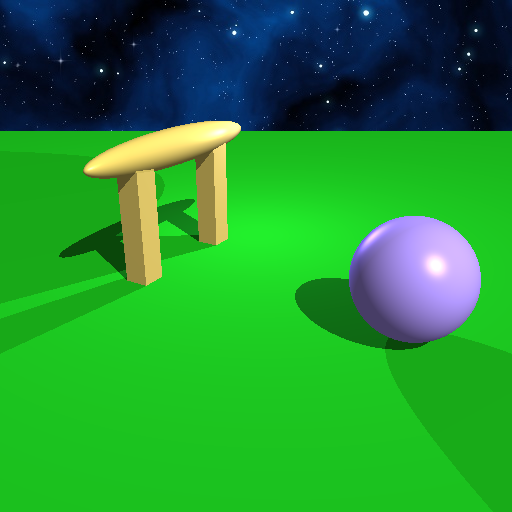
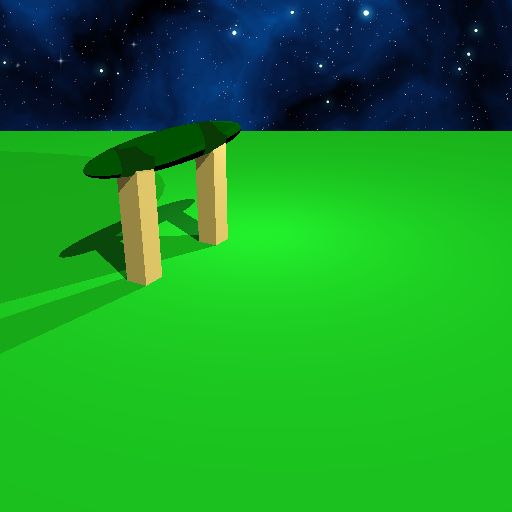
refactor

Changed region(s): [[0.5625, 0.4062, 1.0, 0.8438], [0.1562, 0.2188, 0.4688, 0.375]]

diff --git a/cs488/A4/A4.cpp b/cs488/A4/A4.cpp
@@ -9,11 +9,10 @@ using namespace std;
 #include "stb_image.h"
 
 #include "A4.hpp"
-#include "PhongMaterial.hpp"
 #include <time.h>
 
 #define PI 3.14159
-#define EPSILON 1.0
+#define EPSILON 1.0e-2
 
 static const char *BG_FILE_NAME = "bg.jpg";
 static const double COLOR_THRESHOLD = 0.01;
@@ -22,9 +21,10 @@ static const double RESAMPLE_LEVEL = 4;
 static unsigned char *bg_data;
 
 static const bool ADAPTIVE_SAMPLING = false;
-static const bool FRESNEL = false;
+static const bool SOFT_SHADOW = false;
+static const bool FRESNEL = true;
 static const double LIGHT_RADIUS = 0.05;
-static const double SOFT_SHADOW_N = 20;
+static const double SOFT_SHADOW_N = 10;
 static int bg_x, bg_y, channels;
 
 A4::A4(
@@ -288,7 +288,8 @@ glm::vec3 A4::getColor (
 		if (phongMat != NULL) {
 			isPhongMat = true;
 		}
-		Intersection tmp_isect = Intersection();
+		Intersection tmp_isect1 = Intersection();
+		Intersection tmp_isect2 = Intersection();
 		vec3 to_light_dir, start;
 		vec3 color = vec3(0.0, 0.0, 0.0);
 		vec3 intersection = eye + isect.t * ray_dir;
@@ -297,6 +298,12 @@ glm::vec3 A4::getColor (
 		GeometryNode *node;
 		vec3 diffuse_color = material->m_kd;
 		vec3 specular_color = material->m_ks;
+
+		vec3 diffuse_contrib = vec3(0,0,0);
+		vec3 specular_contrib = vec3(0,0,0);
+		vec3 ambient_contrib = vec3(0,0,0);
+		vec3 reflection_contrib = vec3(0,0,0);
+		vec3 transmission_contrib = vec3(0,0,0);
 
 		// do normal mapping if necessary
 		if (isPhongMat && strlen((phongMat->m_normal_fname).c_str()) > 0) {
@@ -318,72 +325,141 @@ glm::vec3 A4::getColor (
 						diffuse_color = readTextureMap(phongMat->m_tex_fname, isect.uv);
 						specular_color = diffuse_color;
 				}
-				// light area
-				vec3 light_u = glm::normalize(glm::cross(to_light_dir, vec3(0,1.0,0)));
-				vec3 light_v = glm::normalize(glm::cross(to_light_dir, light_u));
-				double hit_count = 0.0;
 				start = intersection + EPSILON*to_light_dir;
-				for (int i = 0; i < SOFT_SHADOW_N + 1; i++) {
-					vec3 light_offset = vec3(0.0,0.0,0.0);
-					if (i>0) {
-						light_offset = light_u * randoms.at(i-1) * LIGHT_RADIUS + light_v * randomr.at(i-1) * LIGHT_RADIUS;
+				double hit_count = 0.0;
+				if (SOFT_SHADOW) {
+					// light area
+					vec3 light_u = glm::normalize(glm::cross(to_light_dir, vec3(0,1.0,0)));
+					vec3 light_v = glm::normalize(glm::cross(to_light_dir, light_u));
+					for (int i = 0; i < SOFT_SHADOW_N + 1; i++) {
+						vec3 light_offset = vec3(0.0,0.0,0.0);
+						if (i>0) {
+							light_offset = light_u * randoms.at(i-1) * LIGHT_RADIUS + light_v * randomr.at(i-1) * LIGHT_RADIUS;
+						}
+						tmp_isect1.t = HUGE_VAL;
+						A4_Render_pixel_rec (root, start, glm::normalize(to_light_dir+light_offset), &tmp_isect1, mat4(1.0), mat4(1.0), &node);
+						if (tmp_isect1.t == HUGE_VAL){
+							hit_count++;
+						}
+						if (i == 4 && hit_count == 0) {
+							break;
+						}
 					}
-					tmp_isect.t = HUGE_VAL;
-					A4_Render_pixel_rec (root, start, glm::normalize(to_light_dir+light_offset), &tmp_isect, mat4(1.0), mat4(1.0), &node);
-					if (tmp_isect.t == HUGE_VAL){
-						hit_count++;
+					// diffuse
+					if (hit_count > 0) {
+						diffuse_contrib += light->colour * diffuse_color * normal_dot_light * hit_count / (double)(SOFT_SHADOW_N + 1);
 					}
-					if (i == 4 && hit_count == 0) {
-						break;
+				} else {
+					tmp_isect1.t = HUGE_VAL;
+					A4_Render_pixel_rec (root, start, to_light_dir, &tmp_isect1, mat4(1.0), mat4(1.0), &node);
+					if (tmp_isect1.t == HUGE_VAL) {
+						// diffuse
+						diffuse_contrib += light->colour * diffuse_color * normal_dot_light;
 					}
 				}
-				if (hit_count > 0) {
+				if ((SOFT_SHADOW && hit_count > 0) || (!SOFT_SHADOW && tmp_isect1.t == HUGE_VAL)) {
 					// double dist = glm::length(light->position - intersection);
 					// double atten = 1.0/(light->falloff[0] + light->falloff[1] * dist + light->falloff[2]*pow(dist,2.0));
-					// diffuse
-					color += light->colour * diffuse_color * normal_dot_light * hit_count / (double)(SOFT_SHADOW_N + 1);
 					// Specular
 					double cos_thetaI = glm::dot(n_normal, -ray_dir);
 					vec3 rf_ray_dir = glm::normalize(2.0*cos_thetaI*n_normal + ray_dir);
 					double rf_dot_view = std::fmax(0.0, glm::dot(rf_ray_dir, to_light_dir));
-					color += specular_color * pow(rf_dot_view, material->m_shininess);
-					// }
+					specular_contrib += specular_color * pow(rf_dot_view, material->m_shininess);
 				}
 			}
 		}
-		color += ambient * diffuse_color;
+		ambient_contrib += ambient * diffuse_color;
 		// if reflextive material
 		if (isPhongMat && phongMat->m_rf_index >= 1.0f && count <= REFLECT_MAX_TIMES) {
 			// compute reflective ray
 			double cos_thetaI = glm::dot(n_normal, -ray_dir);
+			double sin_thetaI = sqrt(1-pow(cos_thetaI, 2.0));
+			double sin_thetaT = sin_thetaI/phongMat->m_rf_index;
+			double cos_thetaT = sqrt(1-pow(sin_thetaT, 2.0));
 			vec3 rf_ray_dir = glm::normalize(2.0*cos_thetaI*n_normal + ray_dir);
-			start = intersection + EPSILON*rf_ray_dir;
-			A4_Render_pixel_rec (root, start, rf_ray_dir, &tmp_isect, mat4(1.0), mat4(1.0), &node);
-			if (tmp_isect.t != HUGE_VAL) {
-				if (FRESNEL) {
-					double sin_thetaI = sqrt(1-pow(cos_thetaI, 2.0));
-					double sin_thetaT = sin_thetaI/phongMat->m_rf_index;
-					double r_avg;
-					if (sin_thetaT >= 1) {
-						r_avg = 1;
-					} else {
-						double cos_thetaT = sqrt(1-pow(sin_thetaT, 2.0));
-						double r_par = (phongMat->m_rf_index * cos_thetaI - cos_thetaT)/
-							(phongMat->m_rf_index * cos_thetaI + cos_thetaT);
-						double r_per = (cos_thetaI - phongMat->m_rf_index*cos_thetaT)/
-							(cos_thetaI + phongMat->m_rf_index*cos_thetaT);
-						r_avg = (pow(r_par,2.0) + pow(r_per,2.0))/2.0;
-					}
-					if (r_avg > 0.0) {
-						// cout << "r_avg: " << r_avg << endl;
-						vec3 rf_color = getColor (tmp_isect, start, rf_ray_dir, node->m_material, count+1);
-						color = r_avg * rf_color + (1.0 - r_avg) * color;
-					}
-				} else {
-					vec3 rf_color = getColor (tmp_isect, start, rf_ray_dir, node->m_material, count+1);
-					color = 0.3 * rf_color + (1.0 - 0.3) * color;
-				}
+			vec3 tr_ray_dir = glm::normalize(ray_dir + n_normal*cos_thetaI) * sin_thetaT - glm::normalize(n_normal*cos_thetaI) * cos_thetaT;
+			vec3 start_rf = intersection + EPSILON*rf_ray_dir;
+			vec3 start_tr = intersection + EPSILON*tr_ray_dir;
+			tmp_isect1.t = HUGE_VAL;
+			tmp_isect2.t = HUGE_VAL;
+			A4_Render_pixel_rec (root, start_rf, rf_ray_dir, &tmp_isect1, mat4(1.0), mat4(1.0), &node);
+			A4_Render_pixel_rec (root, start_tr, tr_ray_dir, &tmp_isect2, mat4(1.0), mat4(1.0), &node);
+			if (tmp_isect1.t != HUGE_VAL || tmp_isect2.t != HUGE_VAL) {
+				reflectAndTransmit( n_normal, ray_dir, intersection, diffuse_color,
+					&reflection_contrib, &transmission_contrib, *phongMat, count);
 			}
 		}
-		return color;
+		if (isPhongMat) {
+			return specular_contrib + reflection_contrib + transmission_contrib;
+		} else {
+			return diffuse_contrib + specular_contrib + ambient_contrib;
+		}
+
+}
+
+void A4::reflectAndTransmit(
+	const vec3 & n_normal,
+	const vec3 & ray_dir,
+	const vec3 & intersection,
+	const vec3 & diffuse_color,
+	vec3 *reflection_contrib,
+	vec3 *transmission_contrib,
+	PhongMaterial & phongMat,
+	int count
+) {
+	Intersection tmp_isect1 = Intersection();
+	Intersection tmp_isect2 = Intersection();
+	GeometryNode *node;
+	// compute reflective ray
+	double cos_thetaI = glm::dot(n_normal, -ray_dir);
+	double sin_thetaI = sqrt(1-pow(cos_thetaI, 2.0));
+	double sin_thetaT = sin_thetaI/phongMat.m_rf_index;
+	double cos_thetaT = sqrt(1-pow(sin_thetaT, 2.0));
+	vec3 rf_ray_dir = glm::normalize(2.0*cos_thetaI*n_normal + ray_dir);
+	vec3 tr_ray_dir = glm::normalize(ray_dir + n_normal*cos_thetaI) * sin_thetaT - glm::normalize(n_normal*cos_thetaI) * cos_thetaT;
+	vec3 start_rf = intersection + EPSILON*rf_ray_dir;
+	vec3 start_tr = intersection + EPSILON*tr_ray_dir;
+	tmp_isect1.t = HUGE_VAL;
+	tmp_isect2.t = HUGE_VAL;
+	A4_Render_pixel_rec (root, start_rf, rf_ray_dir, &tmp_isect1, mat4(1.0), mat4(1.0), &node);
+	A4_Render_pixel_rec (root, start_tr, tr_ray_dir, &tmp_isect2, mat4(1.0), mat4(1.0), &node);
+	if (tmp_isect1.t != HUGE_VAL || tmp_isect2.t != HUGE_VAL) {
+		if (FRESNEL) {
+			double r_avg;
+			if (sin_thetaT >= 1) {
+				r_avg = 1;
+			} else {
+				double r_par = (phongMat.m_rf_index * cos_thetaI - cos_thetaT)/
+					(phongMat.m_rf_index * cos_thetaI + cos_thetaT);
+				double r_per = (cos_thetaI - phongMat.m_rf_index*cos_thetaT)/
+					(cos_thetaI + phongMat.m_rf_index*cos_thetaT);
+				r_avg = std::fmin(0.0, (pow(r_par,2.0) + pow(r_per,2.0))/2.0);
+			}
+			// if (r_avg > 0.0) {
+				vec3 rf_color = vec3(0.0,0.0,0.0);
+				vec3 tr_color = vec3(0.0,0.0,0.0);
+				if (tmp_isect1.t != HUGE_VAL && r_avg > 0.0) {
+					// cout << "refect!" << endl;
+					rf_color = getColor (tmp_isect1, start_rf, rf_ray_dir, node->m_material, count+1);
+				}
+				if (tmp_isect2.t != HUGE_VAL) {
+					// cout << "transmit" << endl;
+					tr_color = getColor (tmp_isect2, start_tr, tr_ray_dir, node->m_material, count+1);
+				}
+				*reflection_contrib = r_avg * rf_color;
+				*transmission_contrib = (1.0 - r_avg) * tr_color * diffuse_color;
+				// color += diffuse_color * (r_avg * rf_color + (1.0 - r_avg) * tr_color);
+				// color = tr_color;
+				if (tr_color != vec3(0,0,0)) {
+					cout << "tr_color: " << glm::to_string(tr_color) << endl;
+					cout << "r_avg: " << r_avg << endl;
+				}
+			// }
+		} else {
+			// if (tmp_isect1.t != HUGE_VAL) {
+			// 	vec3 rf_color = getColor (tmp_isect1, start_rf, rf_ray_dir, node->m_material, count+1);
+			// 	color = 0.3 * rf_color + (1.0 - 0.3) * color;
+			// }
+		}
+	}
 }

diff --git a/cs488/A4/A4.hpp b/cs488/A4/A4.hpp
@@ -9,6 +9,7 @@
 
 #include "SceneNode.hpp"
 #include "GeometryNode.hpp"
+#include "PhongMaterial.hpp"
 #include "Light.hpp"
 #include "Image.hpp"
 using namespace std;
@@ -94,6 +95,18 @@ private:
 	glm::vec3 A4_sample_one_dir(
 		double i, double j, bool resample
 	);
+
+	void reflectAndTransmit(
+		const vec3 & n_normal,
+		const vec3 & ray_dir,
+		const vec3 & intersection,
+		const vec3 & diffuse_color,
+		vec3 *reflection_contrib,
+		vec3 *transmission_contrib,
+		PhongMaterial & phongMat,
+		int count
+	);
+
 	bool A4_pixel_is_edge (glm::vec3 avg, glm::vec3 color);
 	glm::vec3 get_ray_dir(double i, double j);
 	glm::vec3 get_neighbor_pixel_avg(int i, int j, Image & samples);
